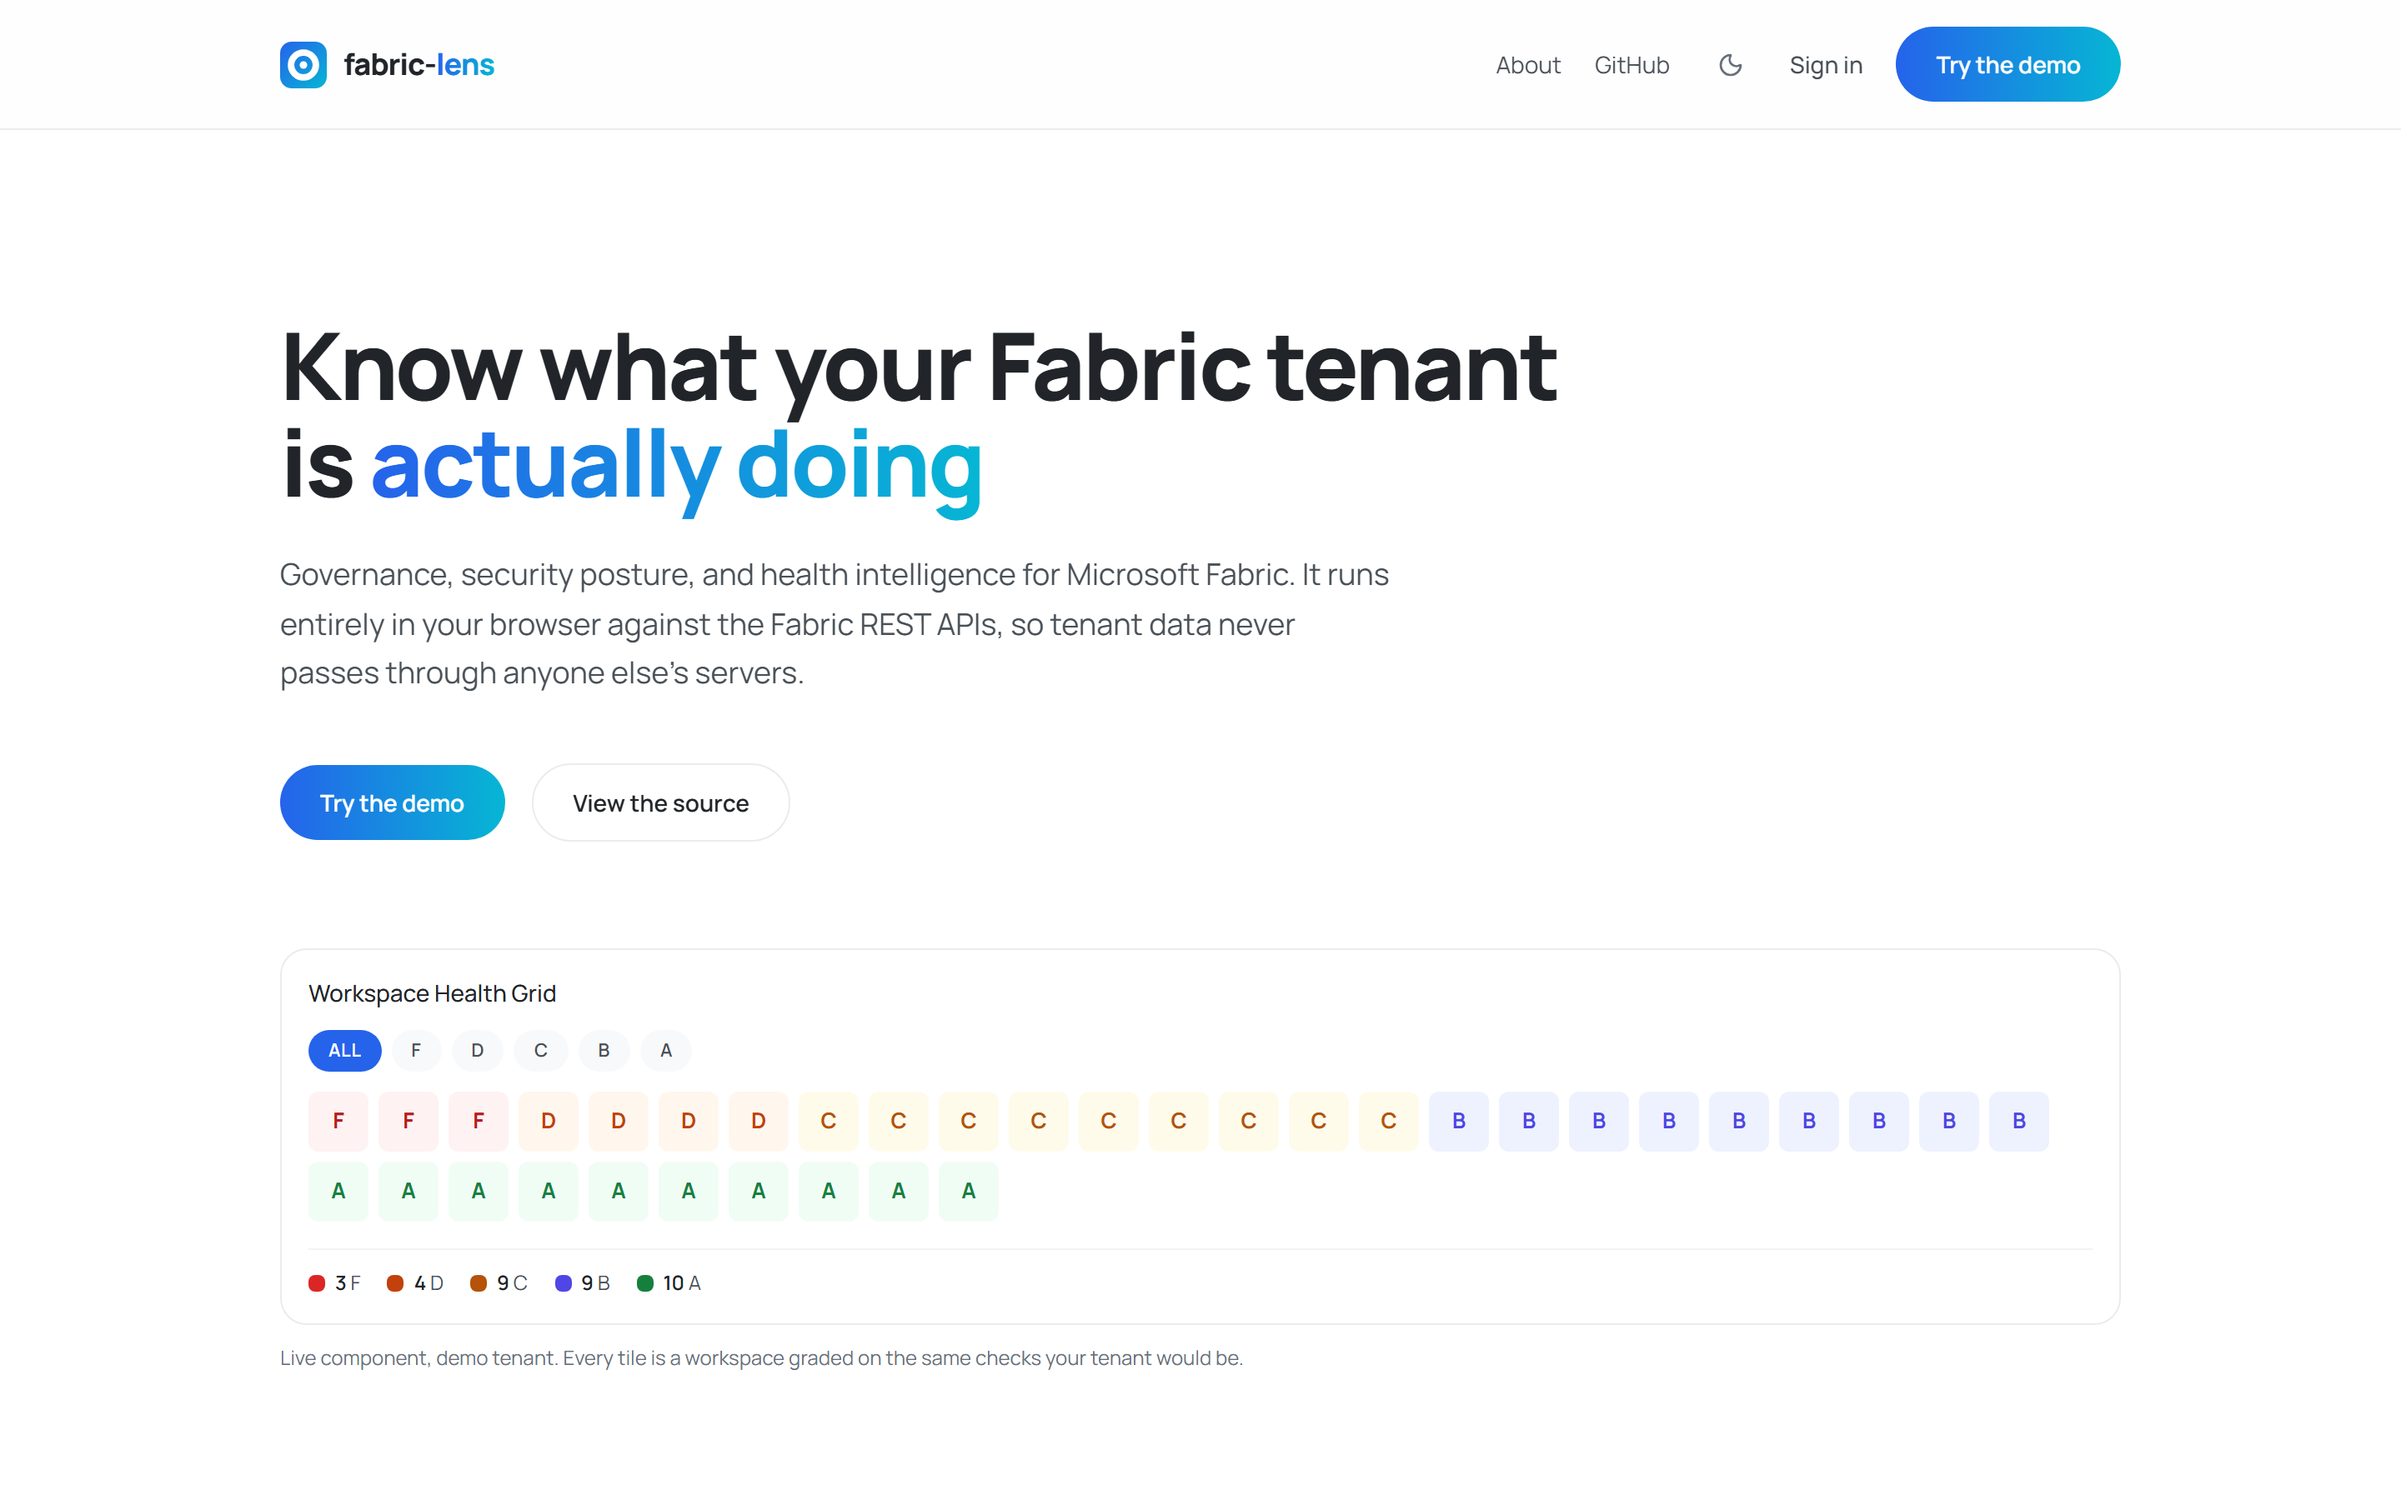
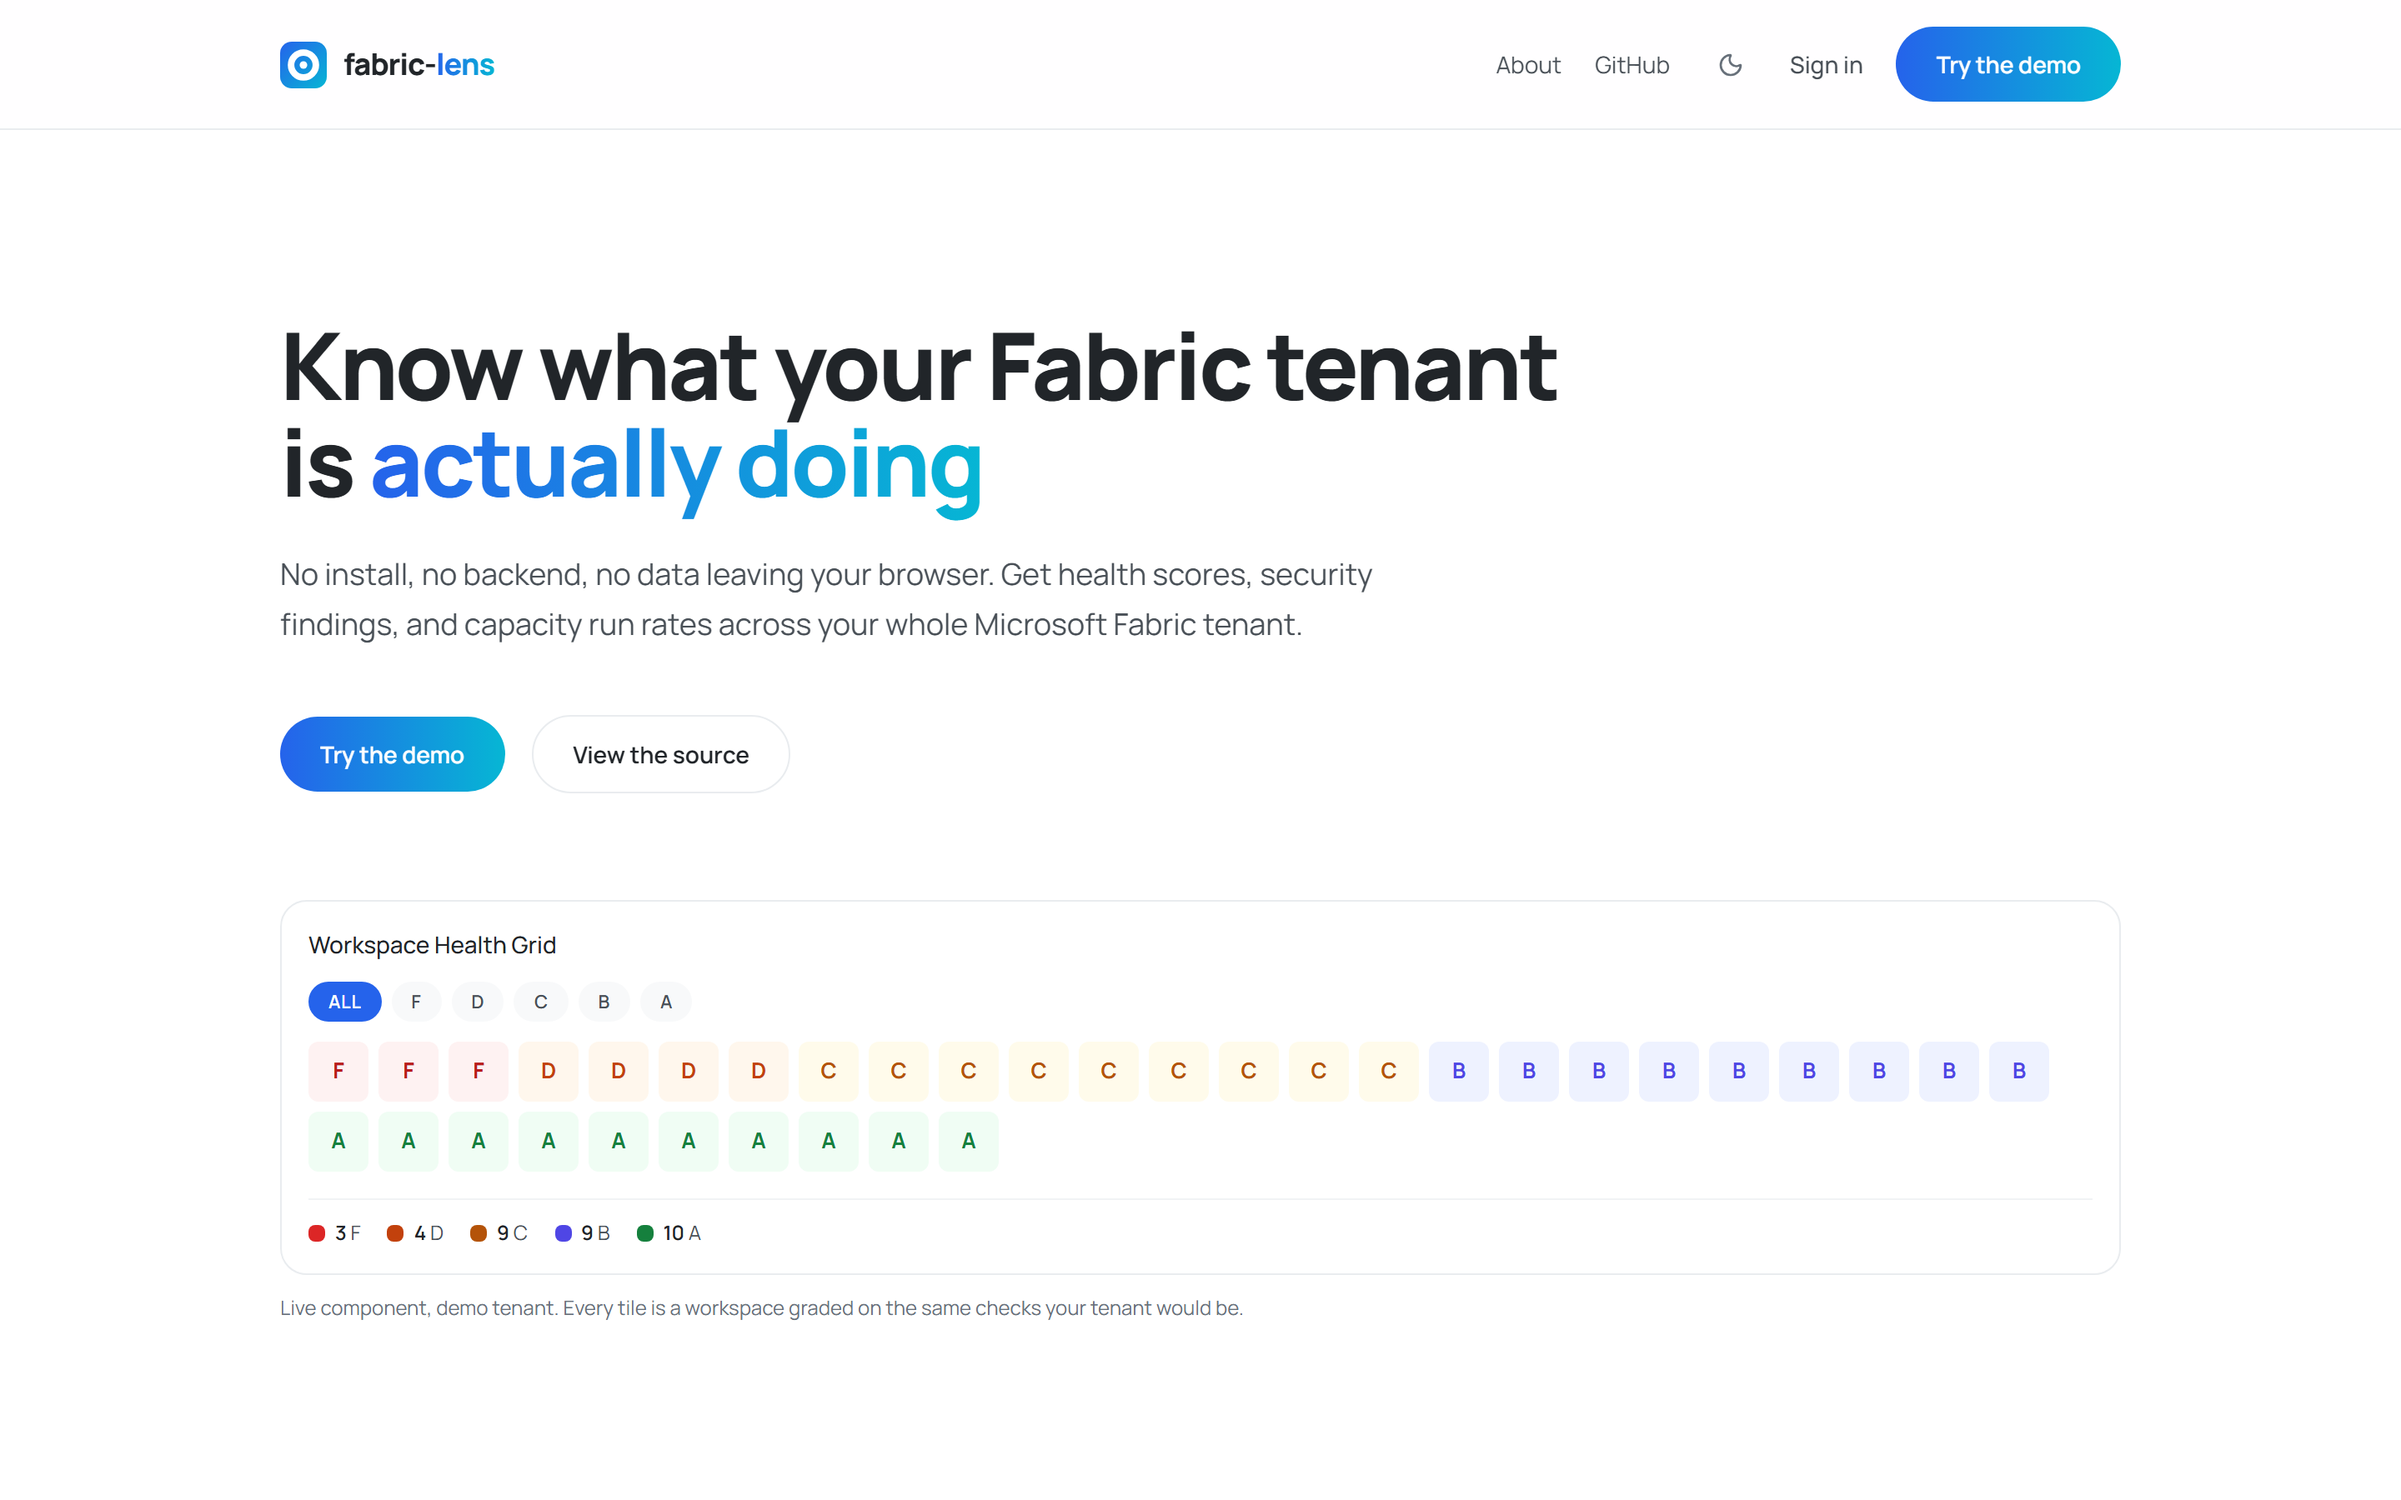
docs(readme): add inactive workspaces screenshot
Drill-in areas start collapsed, so the panel never reached the full-page
capture. Also refreshes a landing.png stale since the #60 repositioning.

diff --git a/README.md b/README.md
@@ -55,7 +55,7 @@ Details in [SECURITY.md](SECURITY.md).
 | **Workspace health scoring** | Every workspace scored across 9 governance checks (description, capacity, domain, workspace identity, naming, active items, data layer, item count, tag coverage) and graded A to F. [How scoring works](https://fabric-lens.com/about) |
 | **Security posture** | A posture score and top findings lead, then drill-in areas for Access, Sharing, Settings, and Lifecycle. Flags over-permissioned users and expands Entra ID group membership via Microsoft Graph (opt-in) |
 | **Exposure detection** | Widely shared reports and semantic models reachable by the entire organization, high-risk tenant settings (PublishToWeb, external sharing), and org-wide sharing that bypasses domain boundaries |
-| **Ghost workspaces** | Workspaces with no recorded activity, detected through the Power BI Activity Log |
+| **Ghost workspaces** | Workspaces with no recorded user activity in the last 28 days, the full retention window of the Power BI audit log |
 | **Capacity and cost** | SKUs, regions, and states with a cost calculator driven by **live Azure retail pricing**, not hardcoded rates |
 | **Item inventory** | 51 recognized Fabric item types across every workload, including the newest GA additions (Data Agents, Eventhouse, Digital Twin Builder). Unknown types flow through rather than breaking |
 | **Governance report** | A printable multi-section report: executive summary, health distribution, security findings, tenant settings, exposure, inactive workspaces, and prioritized recommendations |
@@ -71,6 +71,11 @@ thing before asking anyone for consent.
 | Workspaces | Capacity monitor |
 |------------|------------------|
 | ![Workspaces](docs/screenshots/workspaces.png) | ![Capacity monitor](docs/screenshots/capacity.png) |
+
+Inactive workspaces, ranked by how long they have been quiet. `28+` means no recorded activity
+anywhere in the audit log's full retention window, which is as far back as the data goes.
+
+![Inactive workspaces](docs/screenshots/inactive-workspaces.png)
 
 <details>
 <summary>Dark mode</summary>
